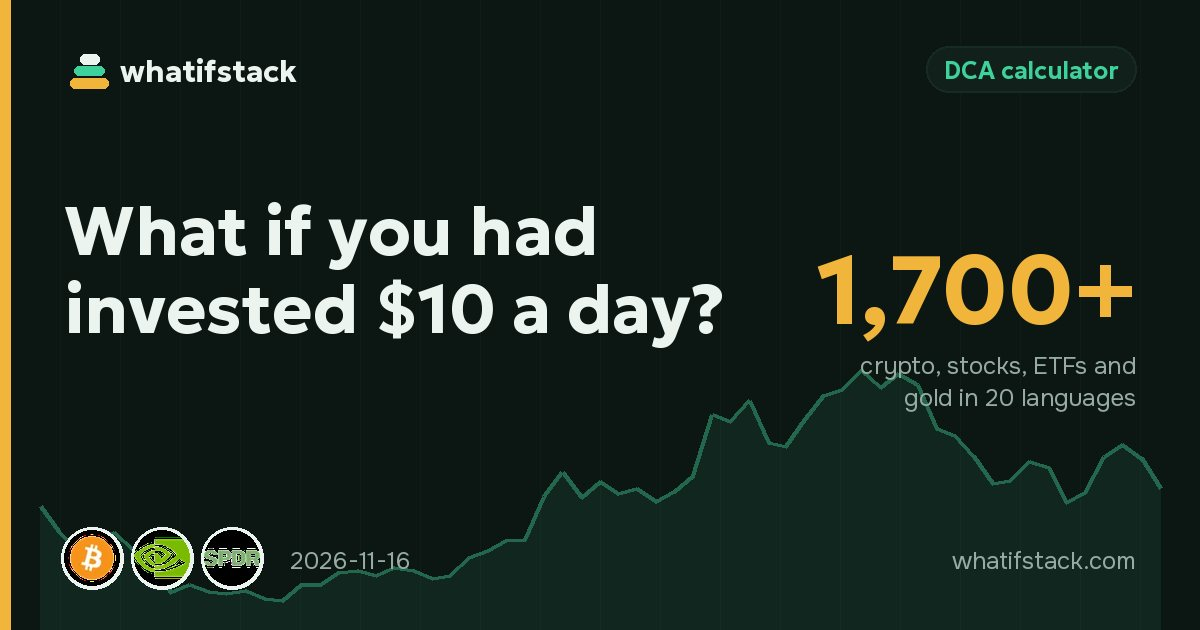
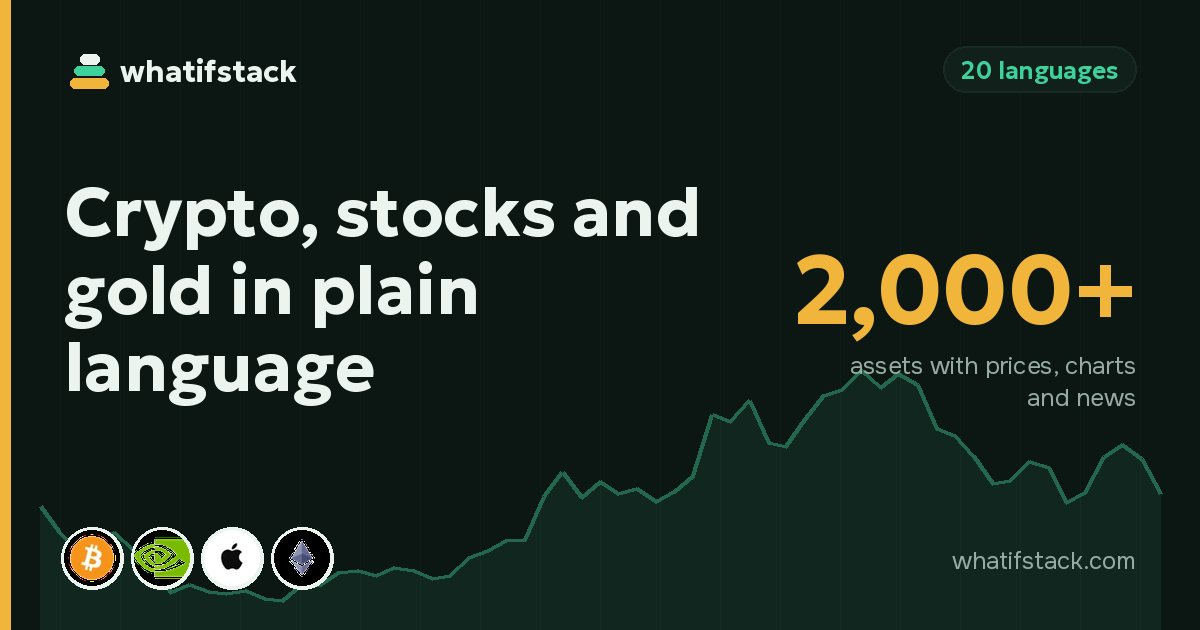
New default share images (og:image) per language: «Crypto, stocks and gold in plain language», 2,000+ assets; replaces the old $10-a-day card
Claude-Session: https://claude.ai/code/session_01Nmn9VQxkqvjv7CQzUMJgNu

diff --git a/scripts/og.py b/scripts/og.py
@@ -1,0 +1,47 @@
+#!/usr/bin/env python3
+"""Default share images (og:image) per language: src/og/<lang>.jpg, 1200x630, in the cover style.
+
+Run after changing the positioning:  python3 scripts/og.py
+Languages whose script the brand fonts do not cover fall back to the English image (build.py picks og/<lang>.jpg if it exists).
+"""
+import os
+import sys
+
+sys.path.insert(0, os.path.dirname(os.path.abspath(__file__)))
+import cover  # noqa: E402
+
+# title = headline, stat = big gold number, sl = line under it, lb = badge top right
+OG = {
+    'en': dict(title='Crypto, stocks and gold in plain language', sl='assets with prices, charts and news', lb='20 languages'),
+    'uk': dict(title='Крипта, акції і золото простою мовою', sl='активів: ціни, графіки й новини', lb='20 мов'),
+    'ru': dict(title='Крипта, акции и золото простым языком', sl='активов: цены, графики и новости', lb='20 языков'),
+    'es': dict(title='Cripto, acciones y oro en lenguaje claro', sl='activos con precios, gráficos y noticias', lb='20 idiomas'),
+    'pt': dict(title='Cripto, ações e ouro em linguagem simples', sl='ativos com preços, gráficos e notícias', lb='20 idiomas'),
+    'de': dict(title='Krypto, Aktien und Gold verständlich erklärt', sl='Werte mit Kursen, Charts und News', lb='20 Sprachen'),
+    'fr': dict(title='Crypto, actions et or en langage clair', sl='actifs avec cours, graphiques et actus', lb='20 langues'),
+    'it': dict(title='Cripto, azioni e oro in parole semplici', sl='asset con prezzi, grafici e notizie', lb='20 lingue'),
+    'pl': dict(title='Krypto, akcje i złoto prostym językiem', sl='aktywów: ceny, wykresy i wiadomości', lb='20 języków'),
+    'tr': dict(title='Kripto, hisse ve altın sade bir dille', sl='varlık: fiyatlar, grafikler ve haberler', lb='20 dil'),
+    'nl': dict(title='Crypto, aandelen en goud in gewone taal', sl='assets met koersen, grafieken en nieuws', lb='20 talen'),
+    'id': dict(title='Kripto, saham, dan emas dengan bahasa sederhana', sl='aset dengan harga, grafik, dan berita', lb='20 bahasa'),
+    'vi': dict(title='Crypto, cổ phiếu và vàng bằng ngôn ngữ dễ hiểu', sl='tài sản: giá, biểu đồ và tin tức', lb='20 ngôn ngữ'),
+    'fil': dict(title='Crypto, stocks at ginto sa simpleng salita', sl='asset na may presyo, chart at balita', lb='20 wika'),
+}
+
+
+def main():
+    A = cover.B().A
+    n = len(A)
+    out_dir = os.path.join(cover.ROOT, 'src', 'og')
+    os.makedirs(out_dir, exist_ok=True)
+    done = []
+    for lang, t in OG.items():
+        stat = f'{(n // 100) * 100:,}+' if lang == 'en' else f'{(n // 100) * 100}+'
+        meta = dict(title=t['title'], stat=stat, stat_label=t['sl'], label=t['lb'], assets='btc,nvda,aapl,eth', date='')
+        if cover.render('og', lang, 'og', meta, os.path.join(out_dir, lang + '.jpg')):
+            done.append(lang)
+    print('rendered:', ' '.join(done))
+
+
+if __name__ == '__main__':
+    main()

diff --git a/scripts/build.py b/scripts/build.py
@@ -67,6 +67,7 @@ TOP_N = 200            # asset pages in languages outside FULL
 market = json.load(open(os.path.join(ROOT, 'data/market.json'), encoding='utf-8'))
 pinned = json.load(open(os.path.join(ROOT, 'data/assets.json'), encoding='utf-8'))
 UPDATED = market['updated']
+OG_LANGS = {f[:-4] for f in os.listdir(os.path.join(ROOT, 'src', 'og')) if f.endswith('.jpg')} if os.path.isdir(os.path.join(ROOT, 'src', 'og')) else set()
 END = UPDATED[:7]
 END_DAY = int(UPDATED[8:10])
 PIN_ORDER = {a['id']: k for k, a in enumerate(pinned)}
@@ -565,7 +566,7 @@ fetch('/assets/p/'+id+'.json').then(r=>r.json()).then(P=>{
 
 
 def shell(lang, p, title, desc, body, cfg, ver, jsonld=()):
-    og_img = SITE + (cfg.pop('_og', None) or '/assets/og.jpg')
+    og_img = SITE + (cfg.pop('_og', None) or (f'/assets/og/{lang}.jpg' if lang in OG_LANGS else '/assets/og/en.jpg'))
     sec = cfg.pop('_sec', None) or p   # section to highlight in the nav
     S = TR[lang]
     canon = SITE + url(lang, p)
@@ -3942,6 +3943,8 @@ def main():
     shutil.copytree(os.path.join(ROOT, 'social', 'launch'), os.path.join(OUT, 'assets', 'press'), ignore=shutil.ignore_patterns('*.md'))   # press kit images   # hands covers to the X composer
     if os.path.isdir(os.path.join(ROOT, 'content', 'covers')):
         shutil.copytree(os.path.join(ROOT, 'content', 'covers'), os.path.join(OUT, 'assets/covers'))
+    if os.path.isdir(os.path.join(ROOT, 'src', 'og')):
+        shutil.copytree(os.path.join(ROOT, 'src', 'og'), os.path.join(DIST, 'assets', 'og'), dirs_exist_ok=True)
     for f in ('favicon.svg', 'icon-192.png', 'icon-512.png', 'og.jpg', 'onest.woff2', 'geologica-600.woff2', 'geologica-700.woff2'):
         shutil.copy(os.path.join(ROOT, 'src', f), os.path.join(OUT, 'assets', f))
     shutil.copy(os.path.join(ROOT, 'src', 'favicon.ico'), os.path.join(OUT, 'favicon.ico'))   # Google's search favicon looks at /favicon.ico

diff --git a/CLAUDE.md b/CLAUDE.md
@@ -40,6 +40,7 @@ src/ref.js (buy buttons) and PARTNERS / POLY in scripts/build.py (/exchanges/ pa
 
 ## Content quality (applies to every article, brief, guide, profile and post)
 Follow content/STYLE.md: headline with a specific number, lead that answers the question, key-takeaways box, "what it means if you buy regularly", sources, local phrasing per language, `stat:`/`stat_label:` front matter.
+Default share image per language: src/og/<lang>.jpg from scripts/og.py (re-run when positioning or asset count changes).
 Every blog/news post needs a branded cover: run `python3 scripts/cover.py --missing` (pip install pillow fonttools) before building and commit content/covers/. Covers are the share image (og:image) and the article hero.
 
 ## Content automation
